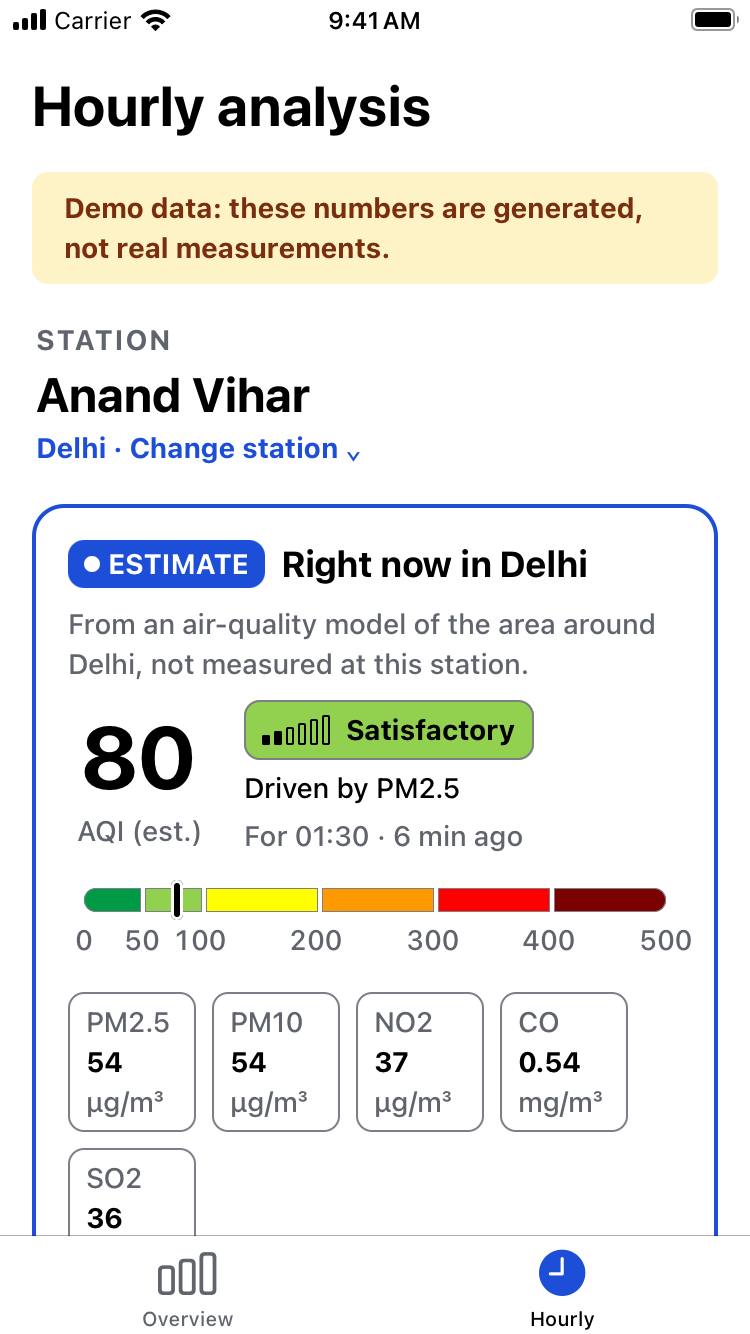
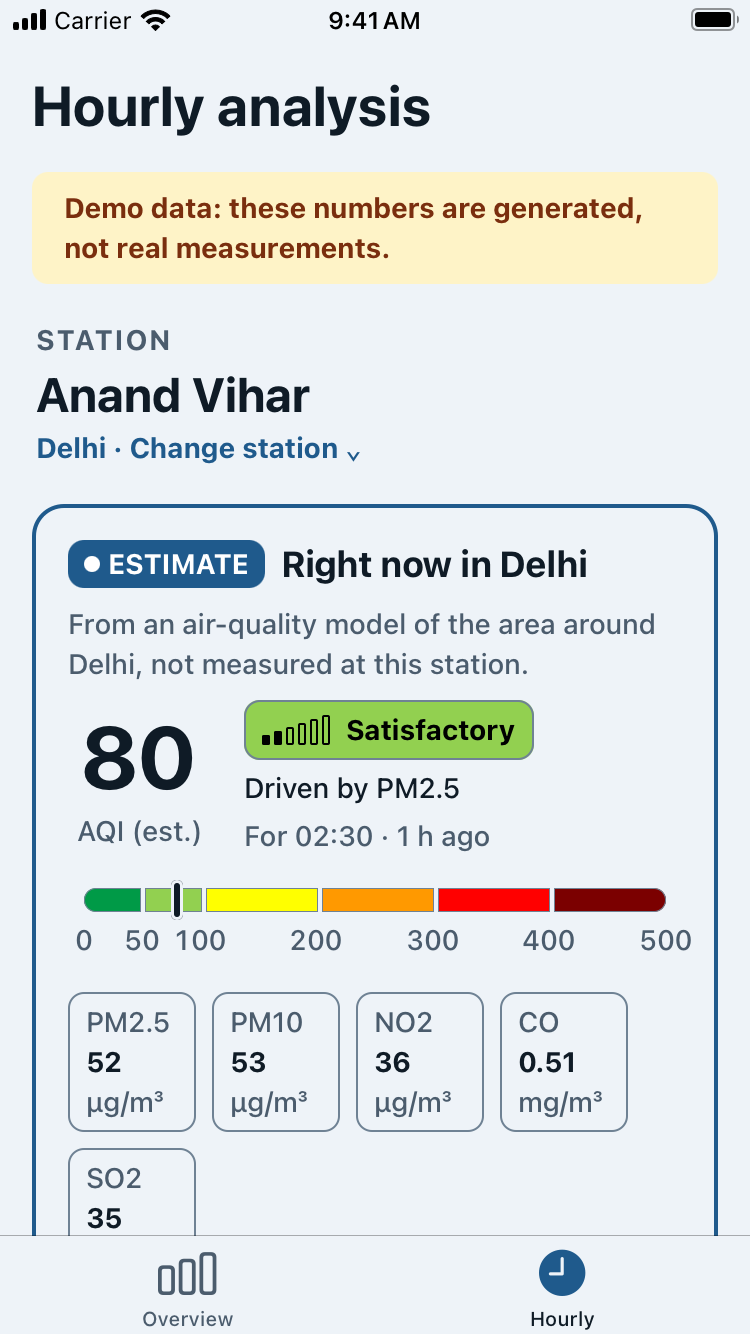
Retake the redesign screenshots in the Halogen blue palette
All on the iPhone SE: Overview and Hourly in light and dark, the night-hour
shading and a city's year in days. The iPhone 16 Pro shots showed the old
palette and Expo Go's tools button, so they're gone.

diff --git a/docs/accessibility.md b/docs/accessibility.md
@@ -38,7 +38,8 @@ Screenshot after the fixes, at Accessibility Large: [Overview rows](accessibilit
 
 The verdict card, status capsules, "Right now" capsules and pinned controls were checked on the
 iPhone SE (3rd gen) and iPhone 16 Pro simulators, in light and dark mode, at the default text size
-and at the largest one (*Accessibility XXXL*). Screenshots: [`redesign/`](redesign/).
+and at the largest one (*Accessibility XXXL*). Screenshots, retaken on the SE after the switch to the
+Halogen blue palette: [`redesign/`](redesign/).
 
 - **City rows at the largest size.** The headline figure ("319 good days") sat beside the city
   name and squeezed it to one letter per line. At large text sizes it now moves below the name.
@@ -86,7 +87,7 @@ New elements and how they reach screen readers:
 
 Screenshots: [Hourly on the SE](redesign/hourly-iphonese-light.png),
 [night hours shaded](redesign/hourly-night-hours-iphonese.png),
-[the year in days](redesign/city-year-in-days-iphone16pro.png).
+[the year in days](redesign/city-year-in-days-iphonese.png).
 
 ## Screen reader design
 
